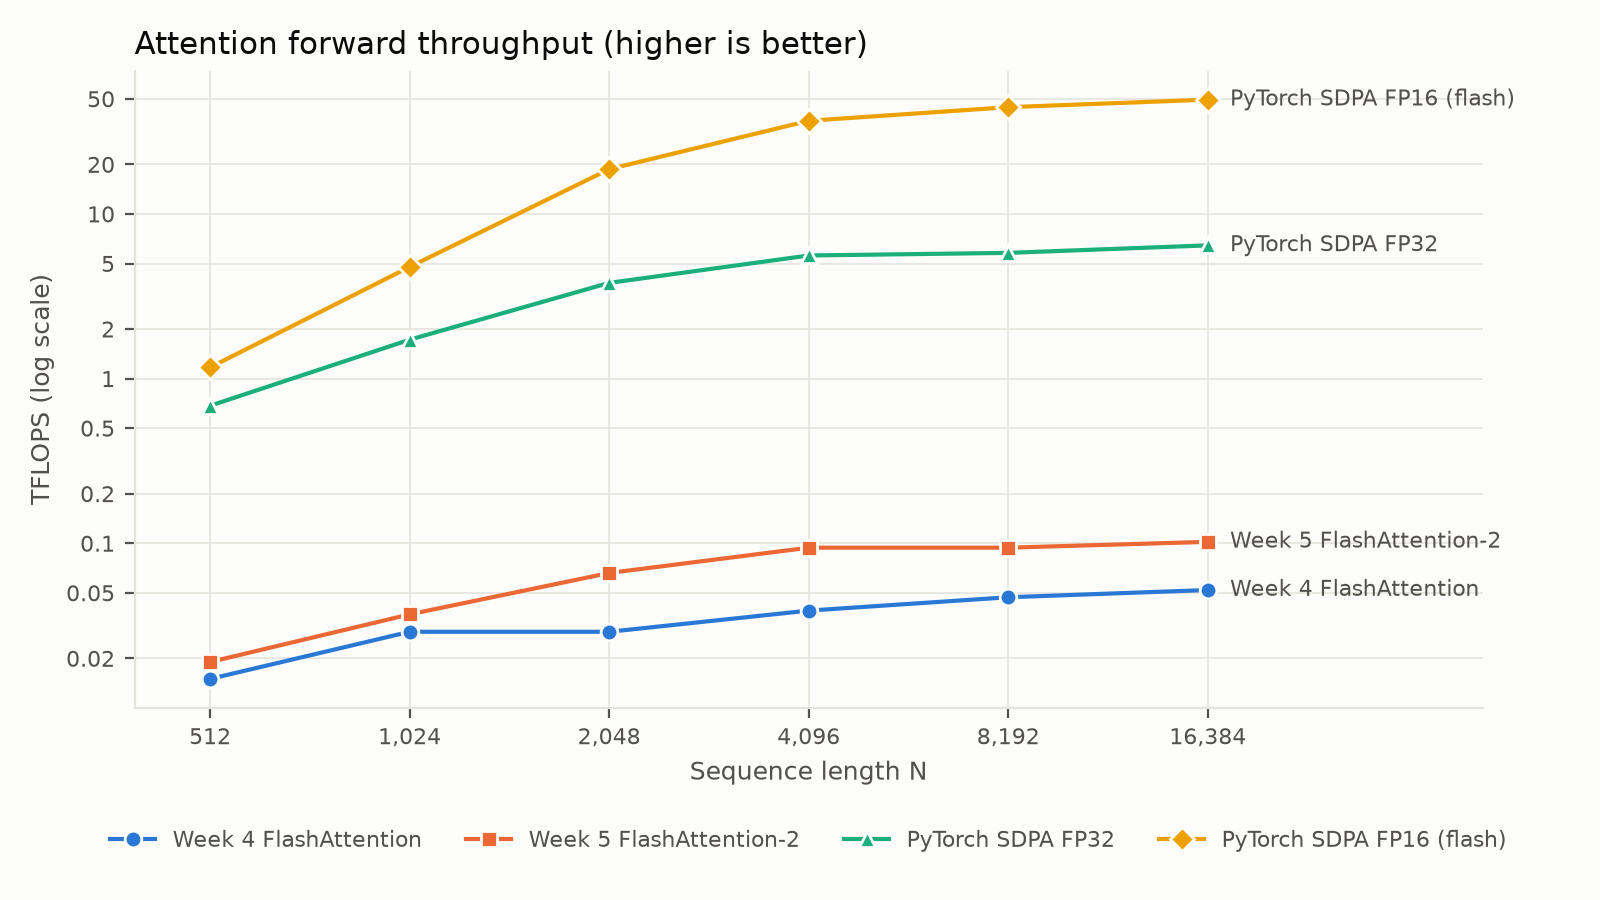
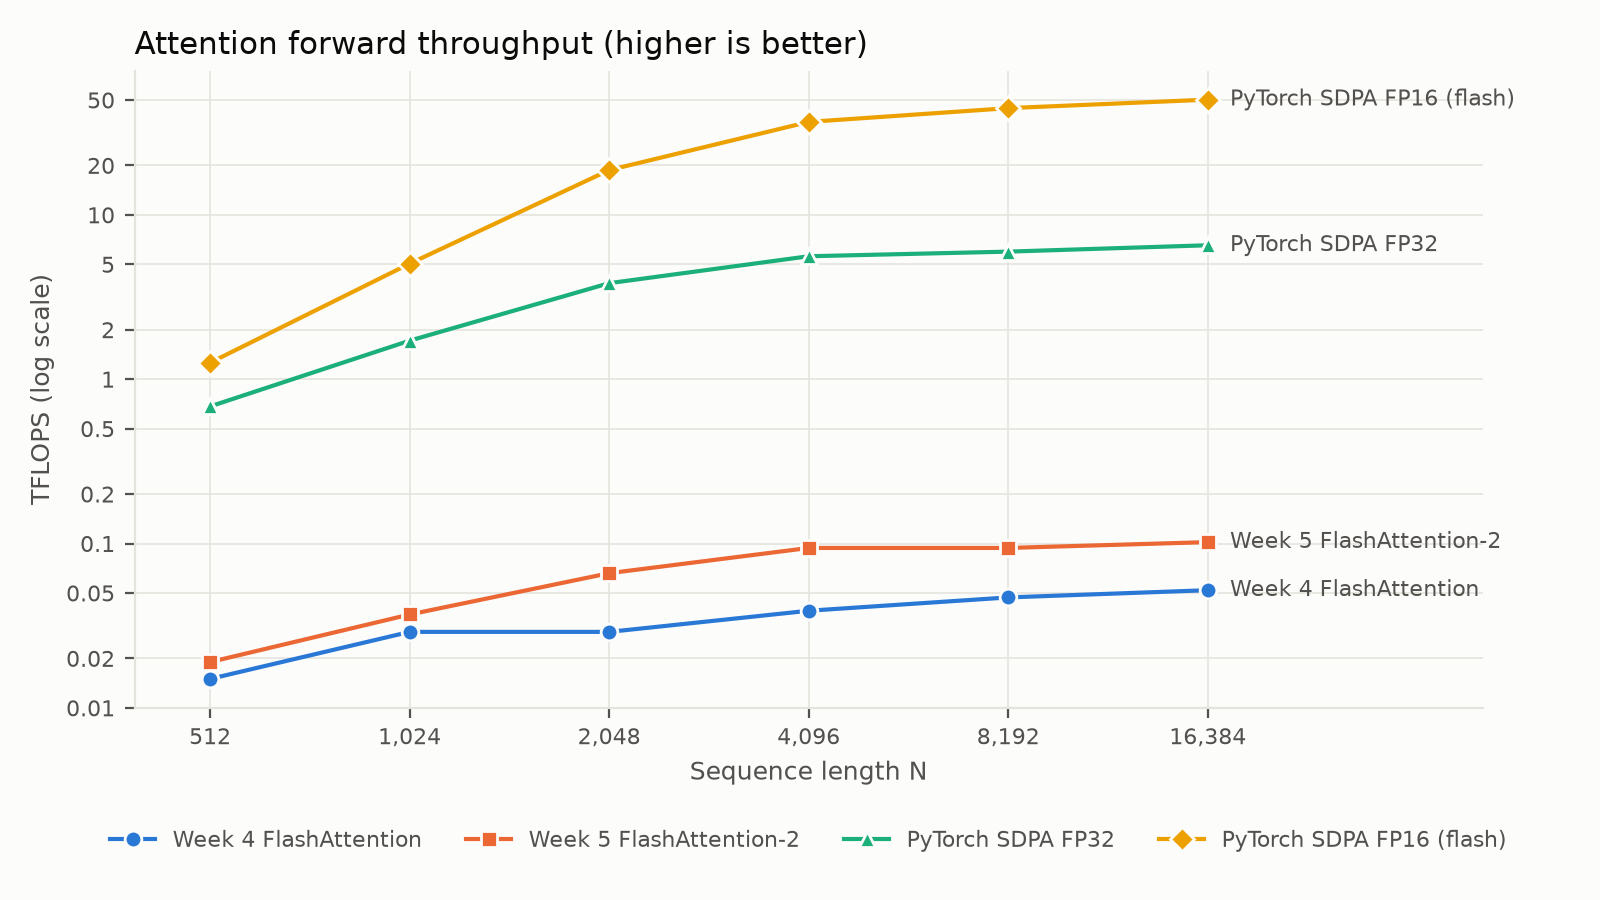
Re-run benchmarks after the FA2 backward fix

diff --git a/bench/RESULTS.md b/bench/RESULTS.md
@@ -15,11 +15,11 @@ Date:   2026-09-28
 
 | Size | Week 2 tiled (GFLOPS) | Week 3 register-blocked (GFLOPS) | cuBLAS (GFLOPS) | Week 3 as % of cuBLAS | Max rel. error vs cuBLAS (wk2 / wk3) |
 |---:|---:|---:|---:|---:|---|
-| 512 | 1,534 | 2,080 | 7,717 | 27% | 9.04e-07 / 9.04e-07 |
-| 1,024 | 1,571 | 4,263 | 13,107 | 33% | 1.53e-06 / 1.53e-06 |
-| 2,048 | 1,532 | 4,103 | 16,464 | 25% | 2.08e-06 / 2.08e-06 |
-| 4,096 | 1,075 | 3,223 | 12,518 | 26% | 0.00e+00 / 0.00e+00 |
-| 8,192 | 1,036 | 3,082 | 11,021 | 28% | 0.00e+00 / 0.00e+00 |
+| 512 | 1,533 | 2,064 | 7,710 | 27% | 9.04e-07 / 9.04e-07 |
+| 1,024 | 1,585 | 4,169 | 12,948 | 32% | 1.53e-06 / 1.53e-06 |
+| 2,048 | 1,543 | 4,077 | 14,122 | 29% | 2.08e-06 / 2.08e-06 |
+| 4,096 | 1,099 | 3,312 | 12,503 | 26% | 0.00e+00 / 0.00e+00 |
+| 8,192 | 1,057 | 3,145 | 11,505 | 27% | 0.00e+00 / 0.00e+00 |
 
 ## Attention forward (one head, d = 64, no mask)
 
@@ -27,23 +27,23 @@ Date:   2026-09-28
 
 | N | Week 4 (ms) | Week 5 FA2 (ms) | SDPA FP32 (ms) | SDPA FP16 (ms) | FA2 vs SDPA FP32 |
 |---:|---:|---:|---:|---:|---:|
-| 512 | 4.61 | 3.58 | 0.0981 | 0.0573 | 36.5× slower |
-| 1,024 | 9.23 | 7.18 | 0.156 | 0.0563 | 46.1× slower |
-| 2,048 | 36.73 | 16.20 | 0.282 | 0.0574 | 57.5× slower |
-| 4,096 | 110.30 | 45.73 | 0.768 | 0.117 | 59.6× slower |
-| 8,192 | 367.80 | 182.80 | 2.96 | 0.386 | 61.7× slower |
-| 16,384 | 1,324.76 | 673.48 | 10.66 | 1.39 | 63.2× slower |
+| 512 | 4.60 | 3.57 | 0.0983 | 0.0532 | 36.4× slower |
+| 1,024 | 9.20 | 7.18 | 0.156 | 0.0532 | 45.9× slower |
+| 2,048 | 36.66 | 16.15 | 0.28 | 0.0573 | 57.8× slower |
+| 4,096 | 110.02 | 45.63 | 0.767 | 0.117 | 59.5× slower |
+| 8,192 | 366.84 | 182.41 | 2.88 | 0.385 | 63.4× slower |
+| 16,384 | 1,321.84 | 672.75 | 10.52 | 1.37 | 64.0× slower |
 
 ## Attention backward
 
 | N | Week 5 FA2 (ms) | SDPA FP32 (ms) | SDPA FP16 (ms) | FA2 vs SDPA FP32 |
 |---:|---:|---:|---:|---:|
-| 512 | 5.73 | 0.247 | 0.164 | 23.2× slower |
-| 1,024 | 11.60 | 0.304 | 0.154 | 38.1× slower |
-| 2,048 | 27.62 | 0.586 | 0.2 | 47.2× slower |
-| 4,096 | 109.66 | 2.32 | 0.248 | 47.3× slower |
-| 8,192 | 326.64 | 7.41 | 1.02 | 44.1× slower |
-| 16,384 | 1,295.97 | 26.47 | 3.52 | 49.0× slower |
+| 512 | 5.47 | 0.252 | 0.167 | 21.7× slower |
+| 1,024 | 12.49 | 0.324 | 0.198 | 38.6× slower |
+| 2,048 | 32.03 | 0.592 | 0.216 | 54.1× slower |
+| 4,096 | 125.88 | 2.21 | 0.271 | 56.9× slower |
+| 8,192 | 383.52 | 7.36 | 0.99 | 52.1× slower |
+| 16,384 | 1,524.18 | 26.94 | 3.43 | 56.6× slower |
 
 ## Correctness (vs the CPU references in each week's file)
 
@@ -53,7 +53,7 @@ Checked for N ≤ 1,024. An error above 0.001 is marked **FAIL**.
 |---|---|---:|---:|---|---|
 | week4_flash | fwd | 512 | 5.59e-08 | O=5.6e-08 | ok |
 | week5_fa2 | fwd | 512 | 9.54e-07 | O=8.2e-08, L=9.5e-07 | ok |
-| week5_fa2 | bwd | 512 | 7.29e-02 | dQ=8.8e-03, dK=4.3e-02, dV=7.3e-02 | **FAIL** |
+| week5_fa2 | bwd | 512 | 5.03e-08 | dQ=5.0e-08, dK=2.2e-08, dV=4.1e-08 | ok |
 | week4_flash | fwd | 1,024 | 7.08e-08 | O=7.1e-08 | ok |
 | week5_fa2 | fwd | 1,024 | 9.54e-07 | O=7.5e-08, L=9.5e-07 | ok |
-| week5_fa2 | bwd | 1,024 | 4.48e-02 | dQ=5.2e-03, dK=3.4e-02, dV=4.5e-02 | **FAIL** |
+| week5_fa2 | bwd | 1,024 | 5.59e-08 | dQ=5.6e-08, dK=3.0e-08, dV=3.7e-08 | ok |
